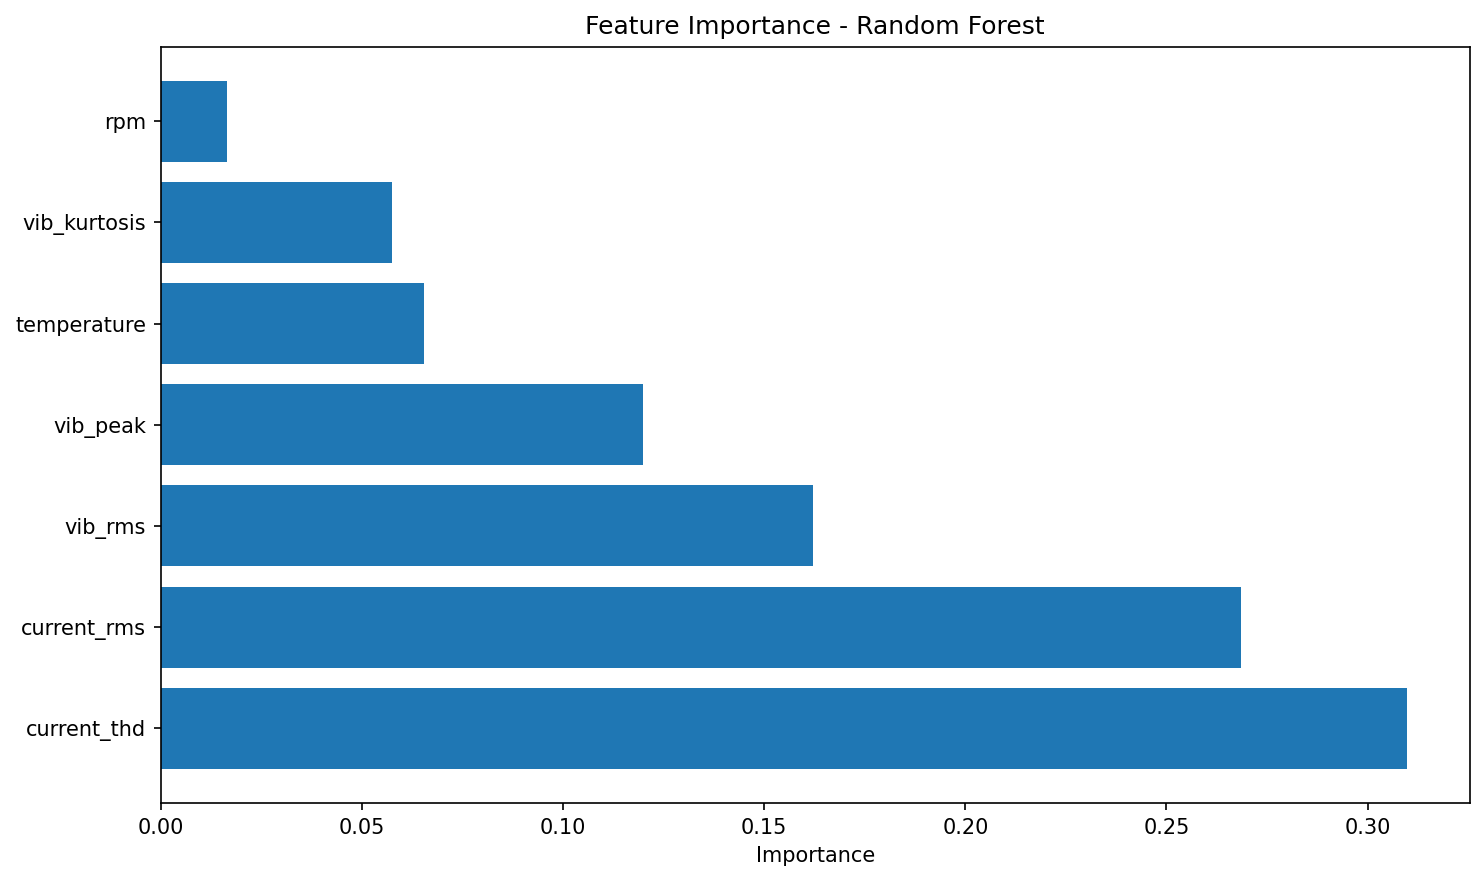
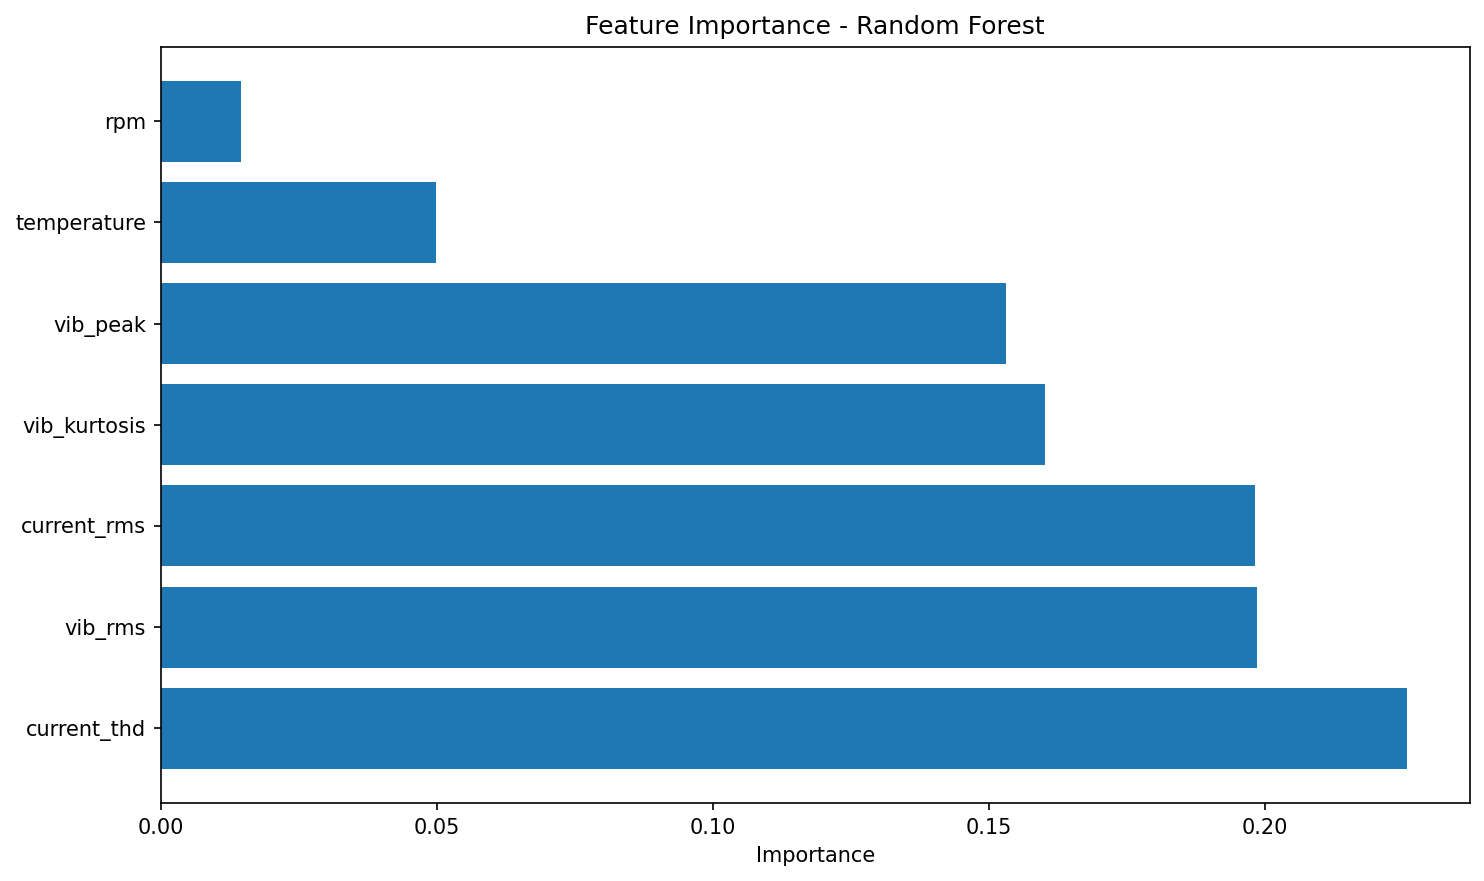
Up

diff --git a/vibraguard/frontend/client/components/dashboard/AlertesRecentes.tsx b/vibraguard/frontend/client/components/dashboard/AlertesRecentes.tsx
@@ -62,7 +62,7 @@ export function AlertesRecentes() {
       title: a.title || cleanMotorId || "Alerte",
       motorId: cleanMotorId,
       time: a.time,
-      description: a.message || (a as any).description || "",
+      description: (a.anomalyType && a.anomalyType !== "NONE") ? `${a.anomalyType} - ${a.message}` : (a.message || (a as any).description || ""),
       iconType: a.priority === "high" ? "critical" : a.priority === "medium" ? "warning" : "temp"
     };
   });

diff --git a/vibraguard/frontend/client/components/dashboard/DernieresAlertes.tsx b/vibraguard/frontend/client/components/dashboard/DernieresAlertes.tsx
@@ -56,7 +56,7 @@ export function DernieresAlertes({ alerts = [] }: { alerts?: any[] }) {
             {/* Text */}
             <div className="flex flex-col gap-1.5 flex-1 min-w-0">
               <span className="text-[15px] font-semibold text-[#EAF6F5] leading-tight">
-                {alert.message}
+                {alert.anomalyType && alert.anomalyType !== "NONE" ? `${alert.anomalyType} - ${alert.message}` : alert.message}
               </span>
               <span className="text-[13px] text-[#C9EDEB] leading-tight">
                 {alert.time} • {alert.level}

diff --git a/vibraguard/frontend/client/pages/Alertes.tsx b/vibraguard/frontend/client/pages/Alertes.tsx
@@ -87,7 +87,7 @@ export default function Alertes() {
     return {
       id: a.id,
       moteur: cleanMotorId,
-      typeDefaut: a.message,
+      typeDefaut: (a.anomalyType && a.anomalyType !== "NONE") ? a.anomalyType : a.message,
       severite: severite,
       confiance: a.scoreConfianceIA ?? (a.priority === "high" ? 96 : 85),
       dateHeure: a.time,

diff --git a/vibraguard/frontend/client/hooks/use-alerts.ts b/vibraguard/frontend/client/hooks/use-alerts.ts
@@ -17,6 +17,7 @@ export interface Alerte {
   temperature?: number;
   scoreConfianceIA?: number;
   depassementSeuil?: number;
+  anomalyType?: string;
 }
 
 export function useAlerts() {

diff --git a/vibraguard/ia_model/train_temp.py b/vibraguard/ia_model/train_temp.py
@@ -1,0 +1,25 @@
+import pandas as pd
+from sklearn.ensemble import RandomForestClassifier
+import joblib
+from sklearn.preprocessing import StandardScaler
+
+print("Loading data...")
+df = pd.read_csv('sensor_data_training.csv')
+features = ['rpm','vib_rms','vib_peak','vib_kurtosis','current_rms','current_thd','temperature']
+X = df[features].fillna(df[features].mean())
+
+# Handling outliers by clipping
+X = X.clip(lower=X.quantile(0.01), upper=X.quantile(0.99), axis=1)
+
+scaler = StandardScaler()
+X_scaled = scaler.fit_transform(X)
+
+y = df['anomaly_type'].fillna('NONE')
+
+print("Training model...")
+rf = RandomForestClassifier(n_estimators=100, max_depth=10, random_state=42, n_jobs=1)
+rf.fit(X_scaled, y)
+
+joblib.dump(rf, 'vibraguard_rf_model.joblib')
+joblib.dump(scaler, 'vibraguard_scaler.joblib')
+print('Done!')

diff --git a/vibraguard/ia_model/spark_streaming_process.py b/vibraguard/ia_model/spark_streaming_process.py
@@ -35,14 +35,12 @@ def predict_anomaly(*features):
         features_array = np.array(features).reshape(1, -1)
         scaled_features = scaler.transform(features_array)
         
-        prediction = model.predict(scaled_features)[0]
-        # Get probability (assuming index 1 is anomalous)
+        prediction_type = str(model.predict(scaled_features)[0])
         probas = model.predict_proba(scaled_features)[0]
-        confidence = probas[1] if len(probas) > 1 else probas[0]
-        if prediction == 0:
-            confidence = probas[0] # confidence in normal
-            
-        return f"{prediction},{confidence * 100:.2f}"
+        confidence = float(np.max(probas))
+        
+        label = "0" if prediction_type == "NONE" else "1"
+        return f"{label},{prediction_type},{confidence * 100:.2f}"
     except Exception as e:
         return f"Error,{str(e)}"
 
@@ -83,9 +81,10 @@ def write_to_backend(batch_df, epoch_id):
         raw_pred = str(row['prediction'])
         parts = raw_pred.split(',')
         prediction_val = parts[0]
-        confidence_val = float(parts[1]) if len(parts) > 1 and parts[1].replace('.','',1).isdigit() else 94.5 
+        anomaly_type_val = parts[1] if len(parts) > 1 else "NONE"
+        confidence_val = float(parts[2]) if len(parts) > 2 and parts[2].replace('.','',1).isdigit() else 94.5 
         
-        print(f"📡 Motor {motor} - Prediction: {prediction_val} (Confidence: {confidence_val}%)")
+        print(f"📡 Motor {motor} - Prediction: {prediction_val} (Type: {anomaly_type_val}, Confidence: {confidence_val}%)")
         
         # 1. Update Vibration Data
         vib_payload = {
@@ -131,7 +130,8 @@ def write_to_backend(batch_df, epoch_id):
                 "accelerationPeak": v_peak,
                 "temperature": temp,
                 "scoreConfianceIA": confidence_val,
-                "depassementSeuil": v_rms * 0.15
+                "depassementSeuil": v_rms * 0.15,
+                "anomalyType": anomaly_type_val
             }
             call_api("ml/alerts", data=alert_payload)
             

diff --git a/vibraguard/ia_model/train_random_forest.py b/vibraguard/ia_model/train_random_forest.py
@@ -35,7 +35,7 @@ feature_columns = [
 ]
 
 X = df[feature_columns]
-y = df['label']
+y = df['anomaly_type']
 
 # Separation train/test
 X_train, X_test, y_train, y_test = train_test_split(
@@ -103,10 +103,10 @@ plt.savefig('feature_importance.png', dpi=150, bbox_inches='tight')
 
 # Matrice de confusion
 cm = confusion_matrix(y_test, y_pred)
-plt.figure(figsize=(8, 6))
+plt.figure(figsize=(10, 8))
 sns.heatmap(cm, annot=True, fmt='d', cmap='Blues', 
-            xticklabels=['ANOMALY', 'NORMAL'],
-            yticklabels=['ANOMALY', 'NORMAL'])
+            xticklabels=rf_model.classes_,
+            yticklabels=rf_model.classes_)
 plt.ylabel('True Class')
 plt.xlabel('Predicted Class')
 plt.title('Confusion Matrix')

diff --git a/vibraguard/backend/api-gateway/src/main/java/com/vibraguard/gateway/entity/Alert.java b/vibraguard/backend/api-gateway/src/main/java/com/vibraguard/gateway/entity/Alert.java
@@ -32,4 +32,5 @@ public class Alert {
     private Double temperature;
     private Double scoreConfianceIA;
     private Double depassementSeuil;
+    private String anomalyType;
 }